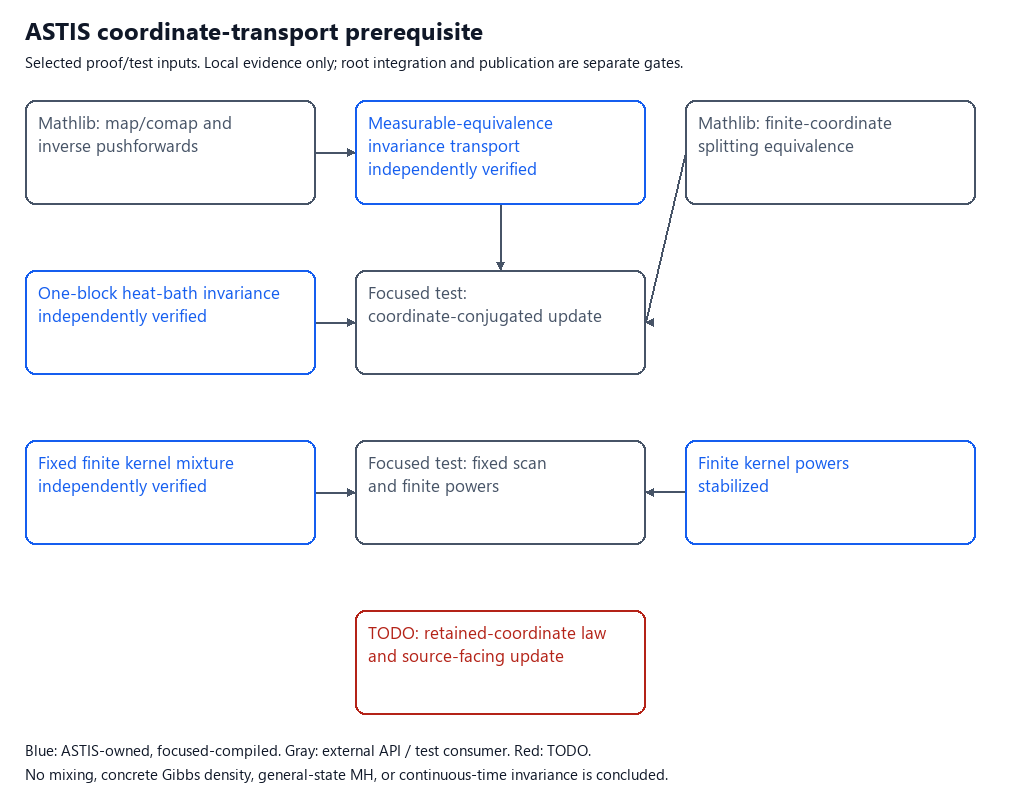
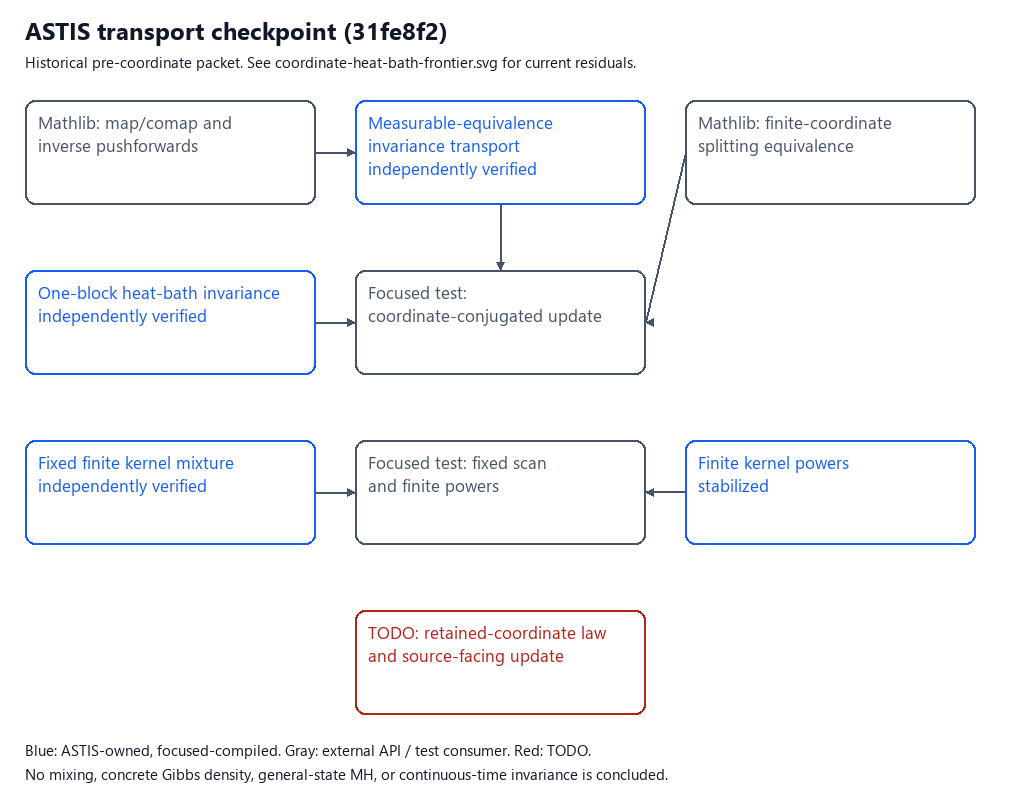
Record independent coordinate-update verification and positive-fiber source route

Changed region(s): [[0.0304, 0.0312, 0.6686, 0.0938]]

diff --git a/runs/20260908-samplewiki-resume/render_kernel_frontier.py b/runs/20260908-samplewiki-resume/render_kernel_frontier.py
@@ -45,10 +45,12 @@ edges = [(0, 1, False), (2, 3, False), (3, 4, False),
          (7, 8, False), (4, 8, False), (7, 9, True)]
 artifact = "shared-kernel-frontier"
 heading = "ASTIS shared-kernel frontier"
+caption = "Selected proof/test inputs. Local evidence only; root integration and publication are separate gates."
 height = 800
 if "--transport" in sys.argv:
     artifact = "kernel-transport-frontier"
-    heading = "ASTIS coordinate-transport prerequisite"
+    heading = "ASTIS transport checkpoint (31fe8f2)"
+    caption = "Historical pre-coordinate packet. See coordinate-heat-bath-frontier.svg for current residuals."
     nodes = [
         node("Mathlib: map/comap and\ninverse pushforwards", 25, 100),
         node("Measurable-equivalence\ninvariance transport", 355, 100,
@@ -71,6 +73,7 @@ if "--transport" in sys.argv:
 if "--coordinate" in sys.argv:
     artifact = "coordinate-heat-bath-frontier"
     heading = "ASTIS operational coordinate-update slice"
+    caption = "Selected proof/test inputs. Local evidence only; root integration and publication are separate gates."
     height = 980
     nodes = [
         node("Mathlib: coordinate split,\nmarginals and a.e. transport", 25, 100),
@@ -117,7 +120,7 @@ def text(x, y, value, size=17, color="#101828"):
 
 
 text(25, 38, heading, 24)
-text(25, 66, "Selected proof/test inputs. Local evidence only; root integration and publication are separate gates.", 15)
+text(25, 66, caption, 15)
 for a, b, planned in edges:
     n, m = nodes[a], nodes[b]
     if n["x"] == m["x"]:

diff --git a/runs/20260908-samplewiki-resume/coordinate-heat-bath-independent-review.md b/runs/20260908-samplewiki-resume/coordinate-heat-bath-independent-review.md
@@ -1,0 +1,134 @@
+# Independent review: operational coordinate heat-bath
+
+Verdict: accepted as **one source-neutral integration node**, not four
+independent mathematical leaves. Verifier: `coordinate_heatbath_review`,
+independent of `coordinate_heatbath_worker`. Date: 2026-09-08.
+Checked commit: `5576ad81fbfcf0dbd68a1fc2e34de8b8ac435164`.
+Advance: `ASTIS-20260908-CoordinateHeatBath`.
+
+## Independent gates and exact bytes
+
+All Lean/Lake calls used `ELAN_TOOLCHAIN=leanprover/lean4:v4.33.0` and
+`LEAN_NUM_THREADS=1` in the original physical D: repository/cache. Independently
+checked Mathlib revision: `db584cd6d46c92f209a44c0f1c829460d327499d`.
+The worktree was clean at the start of final verification.
+
+- `lake build Tests.CoordinateHeatBath`: passed, 2980 jobs, replaying the
+  up-to-date focused target and its signature/axiom output.
+- `lake env lean AutoSamplingTheory/TechnicalLemmas/Probability/CoordinateHeatBath.lean`:
+  fresh direct public-module check passed, exit 0.
+- `lake env lean --stdin`: fresh independent check passed, exit 0. It checked
+  all four public signatures and axioms, exact Mathlib proof-API signatures,
+  the pointwise product-law formula, both split-coordinate formulas, and the
+  additional mixed-coarse and empty-retained boundary examples described below.
+- All four public declarations depend only on `propext`, `Classical.choice`,
+  and `Quot.sound`; no `sorryAx` dependency appeared. Scoped source scanning
+  found no `sorry`, `admit`, custom `axiom`, `Prop := True`, or `:= trivial` closure.
+- `python tools/astis_frontier_cells.py check`: passed, 7 registered cells.
+  Scoped `git diff --check` was clean.
+
+Unfiltered working-file Git hashes matched all five committed blobs before
+review evidence was added:
+
+| Artifact | Checked Git blob |
+| --- | --- |
+| `Probability/CoordinateHeatBath.lean` | `9137baf2d1d3ea49bd8e1861d46dfb3fdf214af9` |
+| `Tests/CoordinateHeatBath.lean` | `af7e9f5ea36dea6e7ee8c75f43df40d3fb71ec87` |
+| Coordinate Frontier Cell | `0689dcae876874285ad363f9efadbe1abf5b7e1b` |
+| Coordinate module card | `985e11e2bfd041d62ef4f1f7086c6aca98cc4541` |
+| Worker packet | `01fcbfb80c776605f4812fc9223f8f35d688c281` |
+
+The public module is under `AutoSamplingTheory/TechnicalLemmas/`. Its SHA-256 is
[1 lines of base64/hex data omitted]
+the test SHA-256 is
[1 lines of base64/hex data omitted]
+
+## Exact public contract and proof audit
+
+The shared parameters are `{n : Nat}`, `X : Fin (n+1) -> Type u`, measurable
+spaces on every `X j`, a finite measure `mu` on the dependent product, selected
+index `i`, and `StandardBorelSpace (X i)` plus `Nonempty (X i)`.
+
+- `heatBath X mu i` returns a kernel on that dependent product.
+- `heatBath_isMarkovKernel` supplies its Markov instance.
+- `heatBath_invariant` proves `(heatBath X mu i).Invariant mu`.
+- `heatBath_ae_apply_eq` additionally takes `j`,
+  `MeasurableSingletonClass (X j)`, `hji : j != i`, and input `x`; its conclusion
+  is `forall-a.e. y` under the pointwise measure `heatBath X mu i x`, `y j = x j`.
+
+Let `e = piFinSuccAbove X i` followed by `prodComm`. The split has
+`(e x).1 k = x (i.succAbove k)` and `(e x).2 = x i`. The public construction
+comaps the one-block kernel by `e` and maps its output by `e.symm`.
+Independent Lean checking verified that its pointwise law is exactly
+
+`((dirac (e x).1).prod (condDistrib snd fst (mu.map e) (e x).1)).map e.symm`.
+
+Thus this is the actual selected-coordinate conditional update, not an
+arbitrary invariant kernel. Both map directions carry genuine measurability;
+the nonmeasurable `Kernel.map` zero fallback is not used. Invariance applies
+the existing transport theorem to `e.symm` and cancels the pushed target in
+the correct direction. Markovness and invariance are literal shared reuse.
+
+For retention, `Fin.exists_succAbove_eq hji` identifies the retained index
+without an off-by-one or heterogeneous-cast gap. The conditional law is a
+probability measure at every retained input, providing the `SFinite` instance
+needed by `Measure.map_fst_prod`. `ae_eq_dirac'` is applied to the measurable
+evaluation map into `X j`; its singleton assumption concerns that codomain,
+not the whole retained product. `ae_of_ae_map` pulls back through the first
+projection. `ae_map_iff` uses the measurable coordinate-singleton event to
+push through the inverse split. Finally, `hprod.mono` and `hcoord` explicitly
+identify the original coordinate. The final `change` is definitional
+normalization, not a new assumption or discarded obligation.
+
+The public module has exactly the two needed shared imports, `HeatBath` and
+`KernelTransport`. No new public split or marginal wrapper was introduced.
+`KernelMixture` and `KernelInvariance` are consumer-test inputs, not proof
+parents of the operational retention result.
+
+## Consumer coverage and failure boundary
+
+The committed tests exercise the public kernel, generic per-coordinate
+singleton assumptions, simultaneous retention by finite intersections,
+Fin 3 / Bool with middle site 1 retaining sites 0 and 2, a concrete
+nonconstant input with zero target, and fixed finite mixtures with all finite
+powers. The private marginal test expands the public definition; it does not
+define another update. The coarse two-point retained-space test transports
+only the selected Bool instances and asserts marginal-law/invariance results,
+not unsupported literal retained equality.
+
+The verifier additionally compiled a dependent three-coordinate family with
+Boolean retained site 0, Boolean selected site 1, and a two-point indiscrete
+retained site 2. Literal retention at site 0 compiled for arbitrary finite
+targets and for zero target without any singleton assumption at site 2.
+An independent empty-retained-space example also compiled Markovness and
+zero-target invariance. These checks supplement, rather than replace, the
+generic theorem and elaborated-signature audit.
+
+Finite coordinate count does not imply finite state space. Retained spaces
+need not be Standard Borel or nonempty; only the selected site needs those
+conditions. Equality of retained marginal laws on a coarse sigma-algebra is
+not silently upgraded to literal a.e. coordinate equality. The conditional
+version is characterized only marginal-almost-everywhere, while the proved
+retention assertion is pointwise in input. It supplies no feasible conditional
+support or density normalization on null fibers.
+
+## Source and publication boundary
+
+The source-neutral classification and `conceptual_mirror_audit = none-found`
+are accepted: this is literal equivalence/product/Dirac reuse, not a new
+cross-domain analogy or a certified functor. Numbered-source semantic roundtrip
+is not applicable to this explicit interface. The existing primary-page audit
+was read as motivation; this verifier did not repeat or certify its source
+inspection, copy-index witness, or proposed repair. The source issue remains
+pending independent source/semantic review.
+
+No numbered Gibbs/Glauber theorem, source copy-index repair, executable
+conditional sampler, null-fiber support, Gibbs normalization, reversibility,
+mixing, continuous-time domain, estimator guarantee, or cost bound is accepted.
+
+This verifier owns only this report, the cell's independent evidence/status,
+and this SAU's supported `VERIFIED` event. The observed sole stabilization
+lane remains `ASTIS-20260908-KernelInvariance`. The final canonical root/site
+gate, shared imports, Registry, graph/site truth, commit, stabilization and
+remote publication remain the root owner's separate scope; no global gate
+was run or represented as passed by this verifier.

diff --git a/runs/20260908-samplewiki-resume/source-facing-next-packet.md b/runs/20260908-samplewiki-resume/source-facing-next-packet.md
@@ -1,0 +1,74 @@
+# Next route after operational retention: positive-fiber source alignment
+
+Read-only API audit, 2026-09-08. This does not freeze a theorem, admit a source
+repair, or add a new proof leaf. Reuse the operational coordinate kernel rather
+than creating another resampling definition.
+
+## Already available: do not reprove the atomic conditional formula
+
+At Mathlib `db584cd6d46c92f209a44c0f1c829460d327499d`,
+`ProbabilityTheory.condDistrib_apply_of_ne_zero` in
+`Mathlib/Probability/Kernel/CondDistrib.lean:75` already states:
+
+\[
+ \kappa(x,s)
+ = (\mu.map\,X\,\{x\})^{-1}
+   (\mu.map\,(X,Y))(\{x\}\times s),
+ \qquad \mu.map\,X\,\{x\}\ne0.
+\]
+
+Here `κ = condDistrib Y X μ`, the target measure is finite, the sampled space
+is nonempty and Standard Borel, the conditioning space has measurable
+singletons, and `Y` is measurable. The exact API asks for the nonzero marginal
+atom and a set `s`; it does not add countability or finiteness of the state
+space. Inspect the elaborated signature when consuming it rather than guessing
+an extra `Measurable X` argument.
+
+Its measure-level parent is `MeasureTheory.Measure.condKernel_apply_of_ne_zero`
+in `Probability/Kernel/Disintegration/StandardBorel.lean:389`, itself reusing
+`Measure.IsCondKernel.apply_of_ne_zero`. No occurrence of either API was found
+in the ASTIS source, tests or current Frontier Cells during this audit.
+
+## The actual missing consumer
+
+Connect `CoordinateHeatBath.heatBath` to the source's conditional update on a
+**positive retained-coordinate fiber**. A useful target is its normalized
+restriction law on that fiber, or the resulting singleton transition formula
+for the finite-discrete consumer. Select one minimal statement after inspecting
+the existing conditional-probability, restriction and pushforward APIs; do not
+implement both as separately counted wrappers.
+
+This must expose the conditioning denominator and prove its nonzero contract.
+Do not assume every ambient configuration is feasible. For a positive-mass
+starting configuration, its retained fiber contains that configuration, so
+measure monotonicity is the expected denominator adapter. Finite measure
+controls the upper endpoint. The zero-marginal case is excluded from this
+formula: the always-Markov selected conditional version is not a license to
+divide by zero or claim source support on null fibers.
+
+The final pointwise formula should distinguish unchanged retained coordinates
+from the resampled coordinate and use the actual canonical kernel, not a
+hypothetically invariant replacement. This would supply the missing bridge
+between the source's update instructions and the shared law construction.
+
+## Source/semantic workflow is part of that packet
+
+- Keep the byte-pinned original Discrete Sampling section 1.3 wording and its
+  existing copy-index issue unchanged. The neighboring prose and the proposed
+  two-bit witness are evidence for review, not an accepted repair.
+- After the exact source-facing Lean statement compiles, pin its elaborated
+  statement and minimal anonymous definition context. Run independent blind
+  reconstruction and the separate anti-anchored source comparison, with all
+  seven semantic slots and packet/run hashes.
+- Any correction needs its own exact-proposal independent repair review.
+  An accepted shared proof or green root build cannot substitute for it.
+- MCMC section 2.1.1, finite-discrete support, scan selection and mixing each
+  retain their own conclusion and domain. No whole chapter or SampleWiki
+  complexity row closes merely because this construction is source-aligned.
+
+## Execution boundary
+
+The six-packet shared kernel route provides the prerequisites; use compact
+cell/review evidence. Public Registry remains 394 pending the serialized
+integration queue. No remote publication permission has been received.
+Do not bypass the kernel-powers stabilization lane or create a replacement Goal.

diff --git a/runs/20260908-samplewiki-resume/plan.md b/runs/20260908-samplewiki-resume/plan.md
@@ -196,3 +196,31 @@ upstream PR status was not changed.
   the next route is source/semantic alignment of the concrete update, not
   another generic invariance wrapper. Remote publication remains unapproved;
   kernel powers retains the only stabilization lane and Registry stays 394.
+
+## Operational coordinate packet: independent acceptance
+
+- `coordinate_heatbath_review` independently accepted the exact code at
+  `5576ad81fbfcf0dbd68a1fc2e34de8b8ac435164` and published `VERIFIED`.
+  Besides the 2980-job focused target, the verifier freshly checked the public
+  module and independent signatures/axioms, pointwise direction, a mixed
+  Boolean/indiscrete retained-coordinate example, and empty-retained-state
+  Markovness/invariance. The canonical cell and separate report own the evidence.
+- The first review-metadata update used an object where the existing cell
+  schema requires a nonempty string. The consistency gate rejected it; the
+  verifier corrected the field without weakening the gate, then the final
+  seven-cell check passed before publishing acceptance. No Lean change or
+  mathematical assumption change was involved.
+- The Worker and verifier have stopped all owned writes. The current
+  operational SVG/PNG is regenerated from the accepted cell and visually
+  checked. The older transport graph is explicitly a historical checkpoint,
+  not a competing current frontier.
+- `source-facing-next-packet.md` pins the already existing Mathlib
+  `condDistrib_apply_of_ne_zero` API. The next missing edge is its connection
+  to the canonical coordinate kernel on a positive retained fiber, followed
+  by source/semantic review; do not reprove the standard atomic formula.
+- Final root/site gates run after the evidence-only checkpoint commit. Their
+  machine-local, source-bound result is `.astis/site-lean-gate.json`; site
+  counts and statuses are generated from current metadata, not copied into
+  another public Registry. Six shared packets do not constitute six source
+  theorem assimilations. The overall Goal remains active and no remote
+  operation or replacement Goal is authorized by this local checkpoint.

diff --git a/runs/20260908-samplewiki-resume/coordinate-operational-next-packet.md b/runs/20260908-samplewiki-resume/coordinate-operational-next-packet.md
@@ -1,4 +1,10 @@
-# Next residual: operational coordinate retention
+# Historical route audit: operational coordinate retention
+
+Implemented at `5576ad81fbfcf0dbd68a1fc2e34de8b8ac435164`; the canonical
+`ASTIS-SHARED-coordinate-heat-bath` cell owns current verification evidence.
+See `source-facing-next-packet.md` for the next residual. The audit below
+preserves the pre-implementation distinction between marginal laws and
+literal almost-everywhere retention.
 
 This is a bounded route audit, not a compiled claim or a frozen source theorem.
 The preceding `KernelTransport.invariant_map_comap` packet has focused and root
